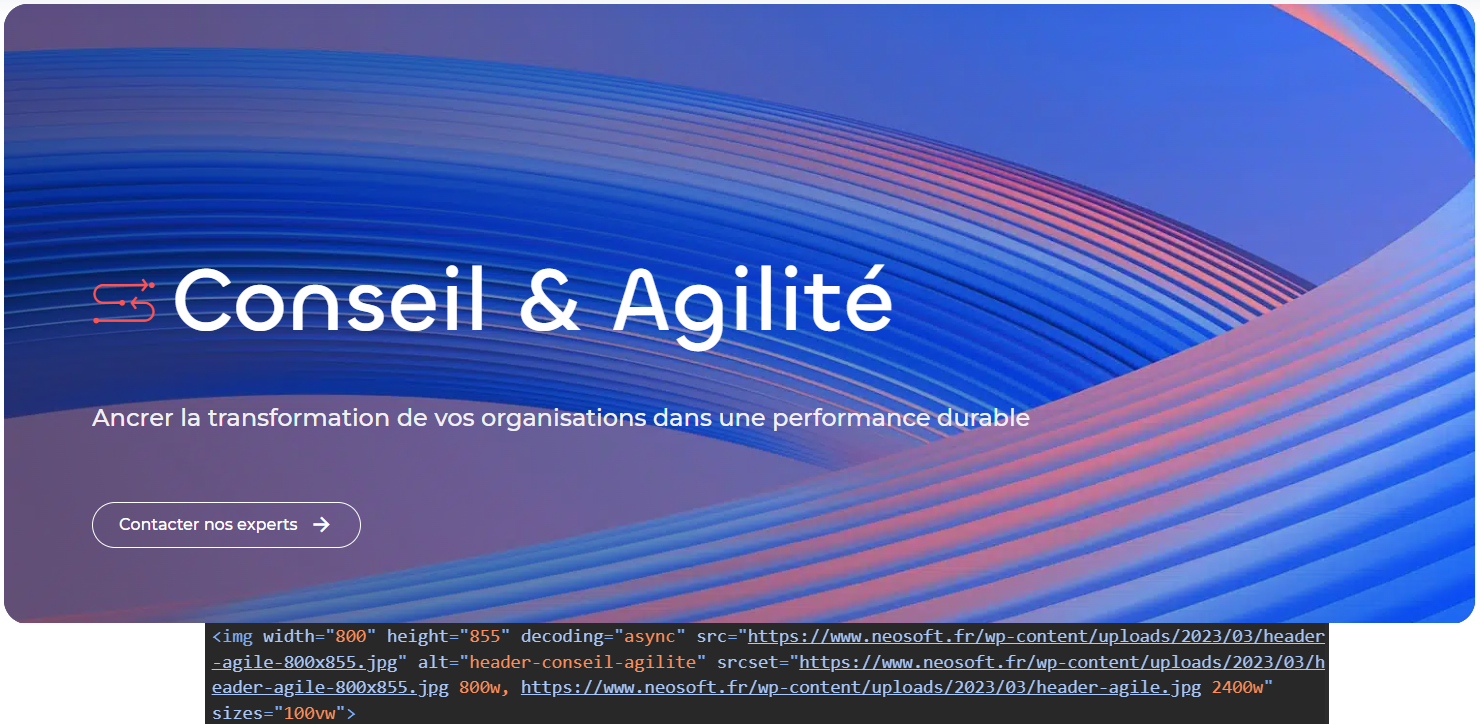
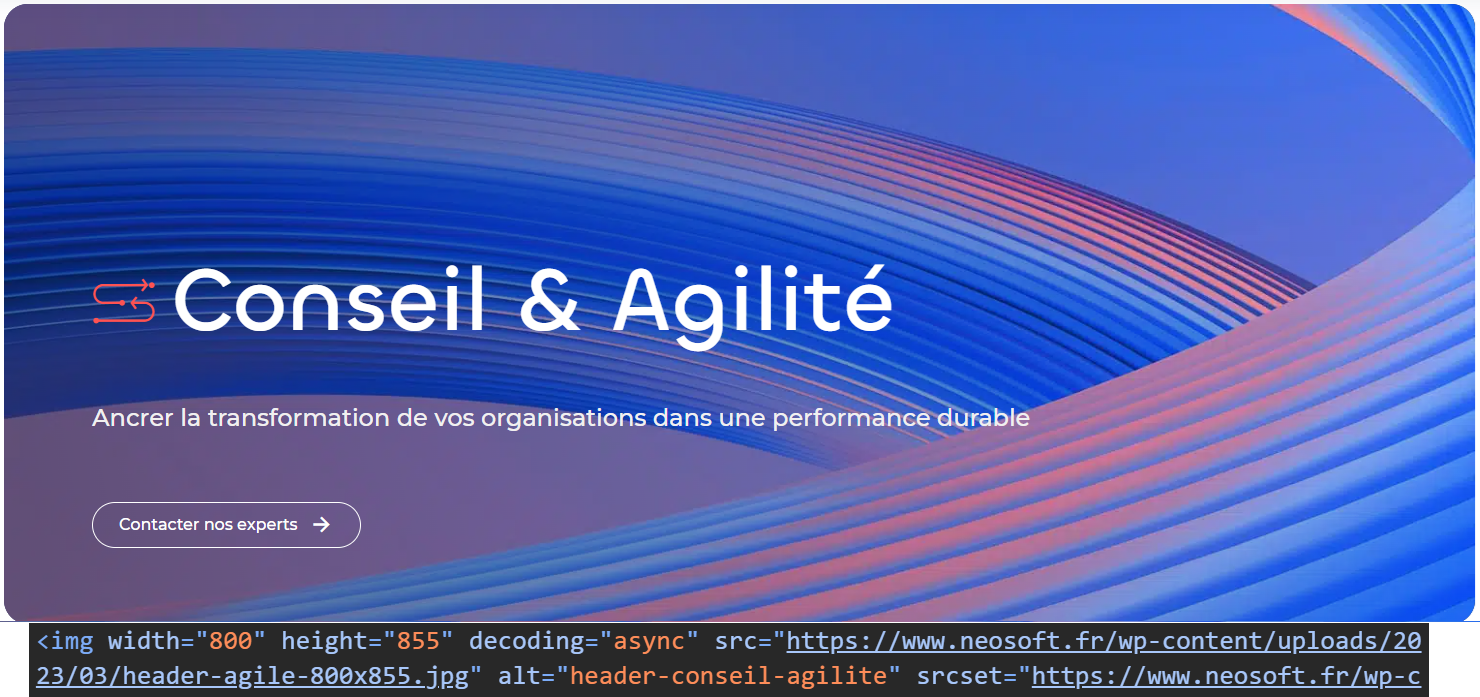
feat(images): add slides about meaningless images

diff --git a/index.htm b/index.htm
@@ -1490,7 +1490,7 @@
 
           <div class="spacer-top columns-2">
             <div class="align-top">
-              <p>Pour les balises <code>img</code></p>
+              <p><b>Pour les balises <code>img</code> :</b></p>
               <ul>
                 <li><code>aria-labelledby</code></li>
                 <li><code>aria-label</code></li>
@@ -1500,8 +1500,9 @@
             </div>
 
             <div class="align-top">
-              <p>Pour les SVG avec <code>role="img"</code></p>
+              <p><b>Pour les SVG :</b></p>
               <ul>
+                <li><strong>DOIT</strong> absolument avoir l'attribut <code>role="img"</code></li>
                 <li><code>aria-labelledby</code></li>
                 <li><code>aria-label</code></li>
               </ul>
@@ -1608,11 +1609,12 @@
           <div>
             <p class="ko">Non-conforme</p>
             <img src="img_slide/images-svg-aria-label-ko.png" alt="SVG sans nom accessible">
+            <!-- Source : https://www.neosoft.fr/pourquoi-rejoindre-neosoft/ -->
           </div>
         </div>
       </section>
 
-      <section id="images-meaningful-5" class="slide large">
+      <section id="images-meaningful-6" class="slide large">
         <div class="align-top">
           <h2>Images porteuses d'information <span class="wcag-level">[A]</span></h2>
           <div class="rgaa-details">
@@ -1631,6 +1633,94 @@
           <div>
             <p class="ok">Conforme</p>
             <img src="img_slide/images-svg-aria-label-ok.png" alt="SVG avec un nom accessible">
+          </div>
+        </div>
+      </section>
+
+      <section id="images-meaningless" class="slide large">
+        <div class="align-top">
+          <h2>Images décoratives <span class="wcag-level">[A]</span></h2>
+          <div class="rgaa-details">
+            <span>RGAA</span>
+            <span class="rgaa-thematic">1. Images</span>
+            <ul class="rgaa-ref">
+              <li>
+                <a href="https://accessibilite.numerique.gouv.fr/methode/criteres-et-tests/#1.2">1.2 [A]</a>
+              </li>
+            </ul>
+          </div>
+
+          <p><b>Définition : </b>Image n’ayant aucune fonction et ne véhiculant aucune information particulière par rapport au contenu
+            auquel elle est associée.</p>
+          <a href="https://accessibilite.numerique.gouv.fr/methode/glossaire/#image-de-decoration">Définition RGAA complète</a>
+
+          <p class="spacer-top"><b>Pour les <code>img</code> :</b></p>
+          <ul>
+            <li><code>alt</code> vide</li>
+            <li><strong>OU</strong> <code>aria-hidden="true"</code></li>
+            <li><strong>OU</strong> <code>role="presentation"</code></li>
+            <li>
+              <strong>ET aucun</strong> autre attribut permettant de fournir une <strong>alternative textuelle</strong>
+              (<code>aria-label</code>, <code>aria-labelledby</code>, <code>title</code>)
+            </li>
+          </ul>
+        </div>
+      </section>
+
+      <section id="images-meaningless-2" class="slide large">
+        <div class="align-top">
+          <h2>Images décoratives <span class="wcag-level">[A]</span></h2>
+          <div class="rgaa-details">
+            <span>RGAA</span>
+            <span class="rgaa-thematic">1. Images</span>
+            <ul class="rgaa-ref">
+              <li>
+                <a href="https://accessibilite.numerique.gouv.fr/methode/criteres-et-tests/#1.2">1.2 [A]</a>
+              </li>
+            </ul>
+          </div>
+
+          <p><b>Définition : </b>Image n’ayant aucune fonction et ne véhiculant aucune information particulière par rapport au contenu
+            auquel elle est associée.</p>
+          <a href="https://accessibilite.numerique.gouv.fr/methode/glossaire/#image-de-decoration">Définition RGAA complète</a>
+
+          <p class="spacer-top"><b>Pour les SVG :</b></p>
+          <ul>
+            <li><strong>PAS</strong> d'attribut <code>role="img"</code></li>
+            <li><code>aria-hidden="true"</code></li>
+            <li><strong>ET</strong> pas de balises <code>title</code> ni <code>desc</code></li>
+            <li>
+              <strong>ET aucun</strong> autre attribut permettant de fournir une <strong>alternative textuelle</strong>
+              (<code>aria-label</code>, <code>aria-labelledby</code>, <code>title</code>)
+            </li>
+          </ul>
+        </div>
+      </section>
+
+      <section id="images-meaningless-3" class="slide large">
+        <div class="align-top">
+          <h2>Images décoratives <span class="wcag-level">[A]</span></h2>
+          <div class="rgaa-details">
+            <span>RGAA</span>
+            <span class="rgaa-thematic">1. Images</span>
+            <ul class="rgaa-ref">
+              <li>
+                <a href="https://accessibilite.numerique.gouv.fr/methode/criteres-et-tests/#1.2">1.2 [A]</a>
+              </li>
+            </ul>
+          </div>
+
+          <div class="columns-2">
+            <div>
+              <p class="ok">Conforme</p>
+              <img src="img_slide/images-img-decorative-alt-ok.png" alt="Image décorative OK">
+              <!-- Source : https://www.neosoft.fr/nos-expertises/conseil-agilite/ -->
+            </div>
+            <div>
+              <p class="ko">Non-conforme</p>
+              <img src="img_slide/images-img-decorative-alt-ko.png" alt="Image décorative KO">
+              <!-- Source : https://www.neosoft.fr/nos-expertises/conseil-agilite/ -->
+            </div>
           </div>
         </div>
       </section>
